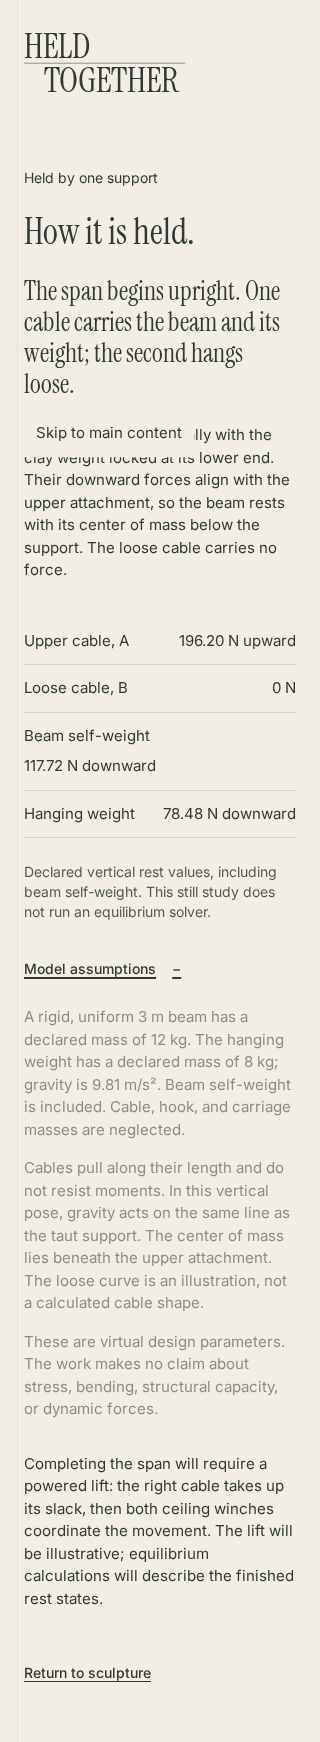
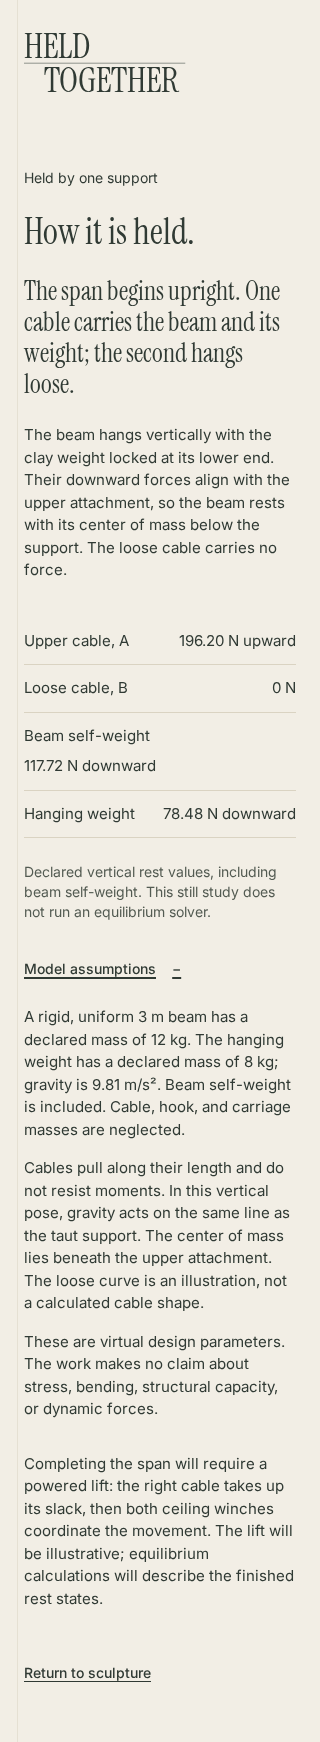
feat: add README for local application previews and update STATUS with architectural details

Changed region(s): [[0.0625, 0.558, 0.875, 0.806], [0.125, 0.248, 0.5938, 0.279], [0.7188, 0.589, 0.9062, 0.651]]

diff --git a/src/app/globals.css b/src/app/globals.css
@@ -21,8 +21,8 @@ p, h1, figure { margin: 0; }
 :focus-visible { outline: 2px solid var(--color-steel); outline-offset: 4px; }
 main:focus { outline: none; }
 ::selection { background: var(--color-reaction); color: var(--color-steel); }
-.skip-link { position: fixed; top: 12px; left: 24px; z-index: 20; padding: 12px; background: var(--color-paper); transform: translateY(-150%); }
-.skip-link:focus { transform: none; }
+.skip-link { position: fixed; top: 12px; left: 24px; z-index: 20; padding: 12px; background: var(--color-paper); transform: translateY(-150%); clip-path: inset(50%); }
+.skip-link:focus { transform: none; clip-path: none; }
 .text-action { display: inline-flex; align-items: center; min-width: 44px; min-height: 44px; padding: 0; border: 0; background: transparent; font-size: 14px; font-weight: 500; line-height: 1.4; gap: .3em; text-decoration: underline; text-decoration-thickness: 1px; text-underline-offset: 3px; }
 .text-action:hover { text-decoration-thickness: 2px; }
 button[aria-disabled="true"] { cursor: default; }
@@ -78,6 +78,7 @@ button[aria-disabled="true"] { cursor: default; }
   .exhibition-kind, .rest-status, .floor-caption { left: 50px; }
   .wall-reveal { left: 390px; }
   .engagement { left: calc(var(--a-x) + var(--span) * .2); }
+  .presentation-note { max-width: calc(var(--span) * .65); }
   .activation-leader { display: none; }
   .cable-caption { left: calc(var(--a-x) + var(--span) - 12px); top: 164px; }
   .weight-caption { left: calc(var(--a-x) + 40px); top: calc(var(--a-y) + var(--span) * 1.24); max-width: 150px; }

diff --git a/docs/STATUS.md b/docs/STATUS.md
@@ -1,27 +1,26 @@
 # HELD TOGETHER — status
 
-Updated: 2026-10-11 (Asia/Karachi). Phase: visual design complete; stopped as requested.
+Updated: 2026-10-11 (Asia/Karachi). Phase: application foundation and architectural opening complete; stopped as requested.
 
 ## Completed
 
-- Read all existing project documents and preserved the equilibrium model, beam self-weight, vertical single-support rest, and illustrative powered-hoist transition.
-- Reviewed Frei Otto, Unseen Studio, 35mm, and contemporary installation photography; source links and adopted principles are in `VISUAL_DESIGN.md`.
-- Created six original static compositions: opening, supported interaction, and force explanation at both 1440 × 900 and 390 × 844. Also created all three 320 × 844 adaptation proofs.
-- Finalized the wordmark, typefaces, material/lighting treatment, object-relative controls, diagram grammar, responsive layout, accessibility appearance, and motion score.
-- Supplied editable SVGs, native-size PNGs, a six-page PDF, an overview board, font files/licenses, and concise asset requirements. Created an editable Figma file with six frames and shared foundations.
+- Read the rules, creative brief, six approved compositions, asset handoff, physics and interaction specifications. The reviewed local SVG/PNG/PDF designs remain authoritative over the earlier Figma version.
+- Created a minimal App Router foundation with pinned Next.js 16.4.0, React 19.3.0, TypeScript 5.9.3, Tailwind CSS 4.3.3 and GSAP 3.15.0; lockfile and local scripts. No Three.js or backend.
+- Built the approved desktop/mobile opening with the offset wordmark, plaster wall reveal, diagonal daylight, limestone floor/joints, original steel/cable/clay SVG layers and restrained wall shadow. Added 320 px adaptation and normal scrolling on shorter viewports.
+- Supplied licensed local WOFF2 subsets (about 47 KB combined), OFL files, design tokens, reusable components, exhibition navigation, metadata and a return route for missing pages.
+- Declared `single-rest` in `src/model/presentation.ts`: vertical beam, A taut, B visibly slack, load locked at B. “Engage second support” is focusable with `aria-disabled` and the visible note “Still study · activation forthcoming.” There is no simulated activation or load movement.
+- Added `/how-it-is-held`, explaining the current vertical rest with declared reference values and beam self-weight. Its native assumptions disclosure works without JavaScript. GSAP loads on disclosure only, for a 200 ms fade; reduced motion skips it. No idle animation loop.
 
 ## Verification and limits
 
-Visually reviewed all six local compositions and the three 320 px proofs; corrected control/cable and narrow-screen annotation collisions. Checked text contrast, SVG/PNG dimensions, six PDF page sizes, local document links, and static-only SVG content. The earlier 1,001-position arithmetic verification remains applicable; the pictured load position is 2.25 m with A = 78.48 N and B = 117.72 N.
+`npm run typecheck` passed. Brief localhost browser smoke passed at 1440 × 900, 390 × 844 and 320 × 844: HTTP 200, local fonts loaded, no horizontal overflow, correct rest declaration, unavailable activation, and no browser errors. Visually reviewed the three opening screenshots against the approved references. Explanation navigation and the no-JavaScript native disclosure passed. Corrected an initial local-font path error before the passing check.
 
-Figma's Starter tool quota stopped further reads/writes after the supported desktop screenshot. Its six frames are earlier editable versions; the reviewed local files include the final clearance, secondary-ink, and mobile-label refinements and are authoritative. The difference is recorded in `design/figma-manifest.json`. No paid upgrade was used.
-
-These are actual static visual compositions, not a functioning prototype. Motion is specified but not implemented or dynamically verified. No application, installed dependencies, hosting, deployment, paid services, or engineering capacity analysis were created.
+Actual runtime screenshots and smoke evidence are in [design/implementation](../design/implementation/README.md). The opening uses HTML/SVG server output as its readable fallback. Review was limited to TypeScript and this brief smoke: no production build, comprehensive accessibility/interaction QA, Lighthouse, hosting, deployment, paid services, or capacity analysis.
 
 ## Handoff
 
-Start review with [the six-page PDF](../design/HELD-TOGETHER-compositions.pdf) or [overview](../design/review-board.png). `VISUAL_DESIGN.md` records precise composition and motion decisions; `ASSET_REQUIREMENTS.md` records delivered files and later production needs. `design/README.md` explains the source files and Figma limitation.
+Run `npm ci`, then `npm run dev`; open `http://127.0.0.1:3000`. [README](../README.md) records the routes and component boundaries. Approved design artifacts remain unchanged in `design/compositions/`.
 
-Future implementation requires a new user instruction. Its first checks should cover the pure equilibrium model, complete support/return sequence, cable connections and floor clearance during the illustrative lift, accessible controls, and reduced motion. Do not treat static visual review as runtime verification.
+The next authorized stage must implement the pure equilibrium solver and complete accessible support/load state machine. Verify the coordinated illustrative lift, A's movement, cable attachments and floor clearance; hide equilibrium readouts during motion. Preserve the valid vertical rest, self-weight, keyboard/touch alternatives and reduced-motion endpoints. The current explanation's numbers are disclosed reference values, not live solver results.
 
 Next action now: none. Stop here.

diff --git a/design/implementation/README.md b/design/implementation/README.md
@@ -1,0 +1,11 @@
+# Local application previews
+
+These screenshots show the implemented opening, separately from the authoritative design references in `design/compositions/`.
+
+- `opening-desktop.png`: 1440 × 900.
+- `opening-mobile.png`: 390 × 844.
+- `opening-narrow.png`: 320 × 844.
+- `vertical-rest-explanation.png`: current-pose explanatory route, assumptions expanded at 320 px.
+- `smoke.json`: brief localhost rendering/navigation/no-JavaScript evidence.
+
+The engagement annotation explicitly identifies the opening as a still study. The control remains focusable and `aria-disabled`; no support movement or equilibrium solver is implemented. The explanatory page uses declared vertical-rest reference values, not a live calculation. This is not comprehensive QA or production-build verification.
